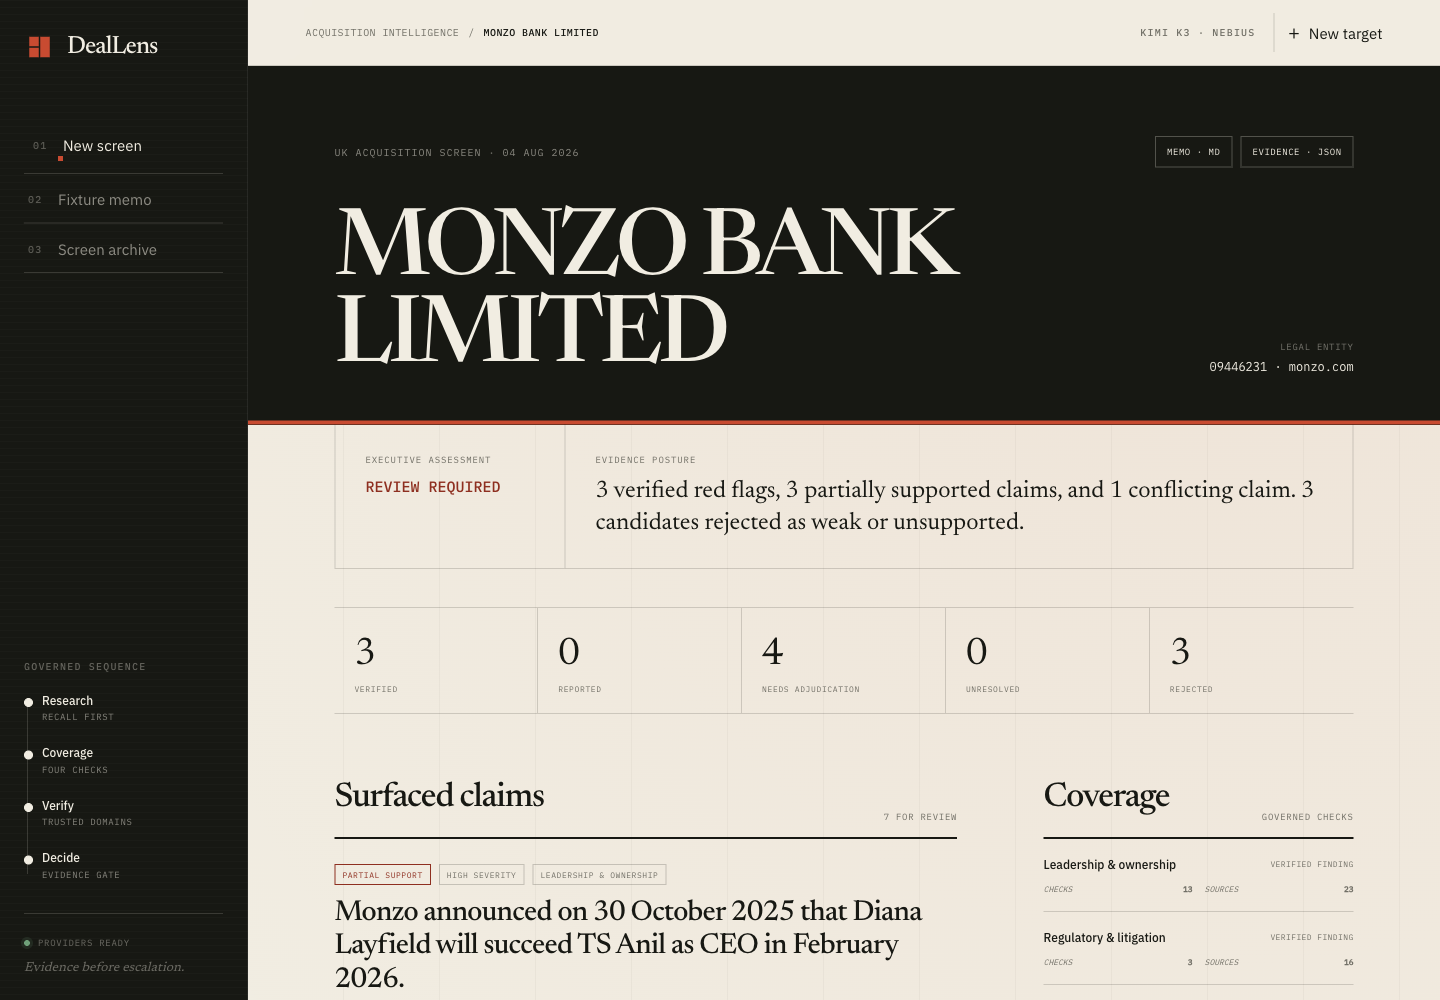
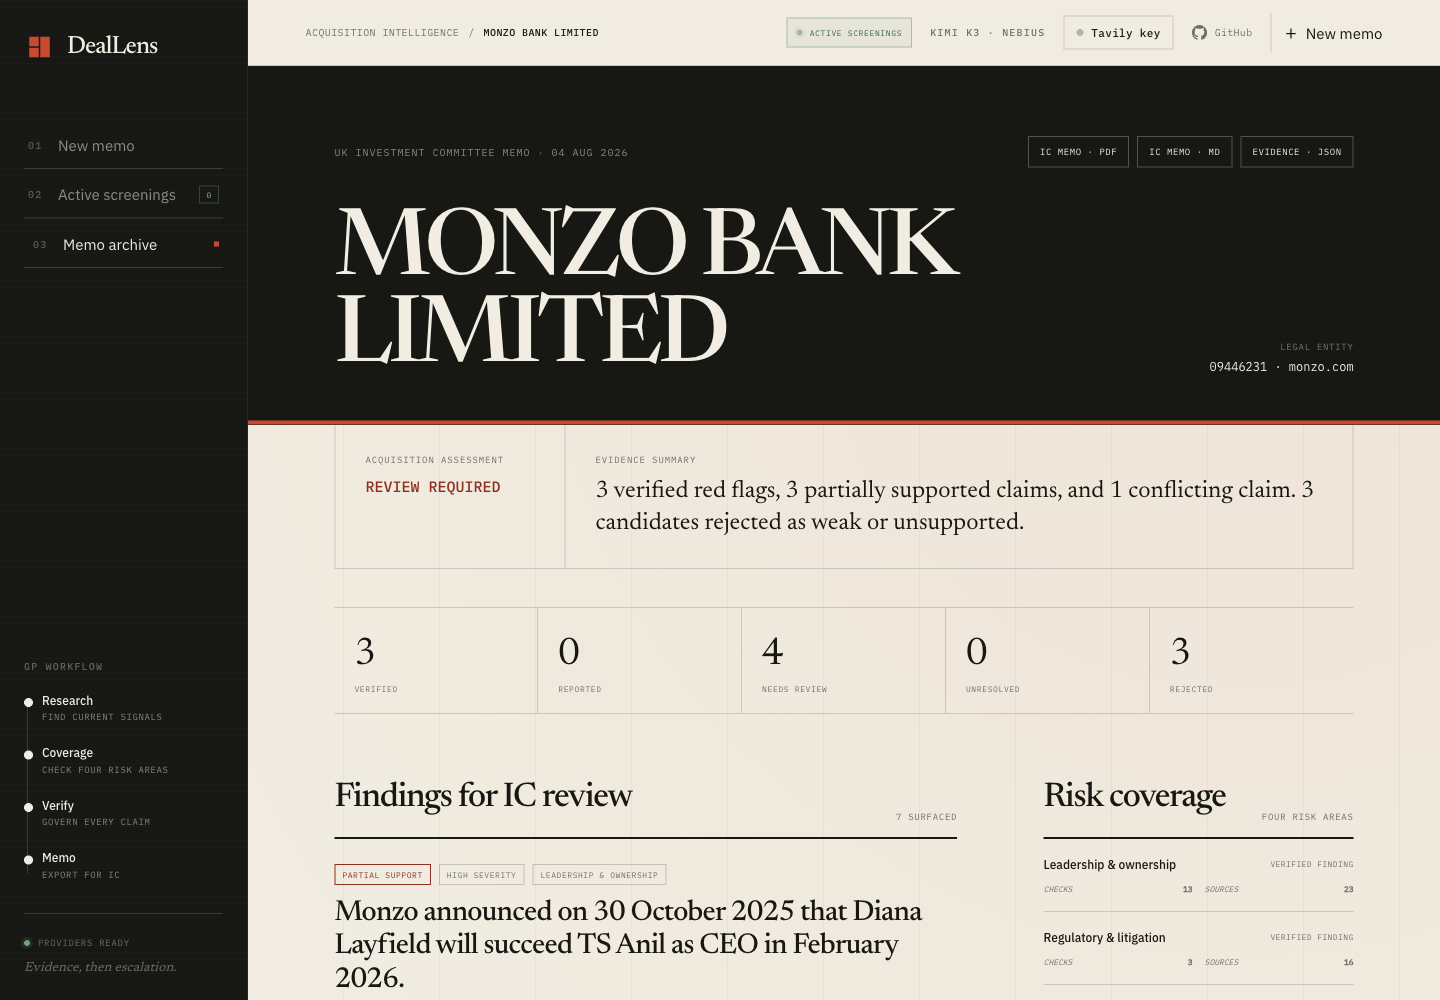
docs: refresh product tour and architecture

diff --git a/README.md b/README.md
@@ -18,7 +18,7 @@ applies the source, entity, and evidence rules.
 > findings” means four governed checks completed without qualifying public
 > evidence; it never means the company is cleared.
 
-![DealLens evidence dashboard](docs/assets/deallens-result.png)
+![DealLens acquisition-intelligence homepage](docs/assets/deallens-home.png)
 
 ## Why, when, and how
 
@@ -68,6 +68,39 @@ separates recall from trust:
 
 The model can suggest evidence. It cannot award itself `VERIFIED`.
 
+### Runtime architecture
+
+The model and retrieval providers sit outside the decision boundary. Only the
+deterministic gate can assign an evidence status or roll findings into the IC
+assessment.
+
+```mermaid
+flowchart TB
+    Analyst["Acquisition analyst"] --> UI["Web UI"]
+    UI --> API["FastAPI job + archive API"]
+    API --> Worker["Bounded screen worker"]
+    Config["Jurisdiction + severity YAML"] --> Worker
+
+    subgraph Providers["External providers"]
+        Tavily["Tavily<br/>Research · Search · Extract"]
+        Kimi["Kimi K3 via Nebius<br/>candidate + quote mapping"]
+    end
+
+    Worker --> Tavily
+    Worker --> Kimi
+    Tavily --> Gate["Deterministic evidence gate"]
+    Kimi --> Gate
+    Gate --> Result["Typed ScreenResult"]
+    Result --> Memo["PDF · Markdown · evidence.json"]
+    Result --> UI
+
+    Worker -. "root + child spans" .-> LangSmith["LangSmith EU"]
+    Tavily -. "retrieval spans" .-> LangSmith
+    Kimi -. "model spans" .-> LangSmith
+```
+
+### Retrieval and decision path
+
 ```mermaid
 flowchart LR
     A["Company + domain"] --> R["Tavily registry search"]
@@ -79,6 +112,23 @@ flowchart LR
     X --> K["Kimi K3 on Nebius<br/>quote/assertion mapping"]
     K --> G["Deterministic evidence gate"]
     G --> O["IC memo<br/>PDF + Markdown<br/>evidence.json"]
+```
+
+### Evidence state machine
+
+```mermaid
+flowchart TD
+    C["Candidate + atomic assertions"] --> E{"Qualifying evidence?"}
+    E -->|"none + processing failure"| U["UNRESOLVED"]
+    E -->|"none, checks completed"| R["REJECTED"]
+    E -->|"yes"| X{"Support and contradiction?"}
+    X -->|"both"| F["CONFLICTING"]
+    X -->|"contradiction only"| D["CONTRADICTED"]
+    X -->|"support"| A{"Every assertion covered?"}
+    A -->|"no"| P["PARTIAL"]
+    A -->|"yes"| T{"Primary source or<br/>2 independent publishers?"}
+    T -->|"yes"| V["VERIFIED"]
+    T -->|"secondary support only"| RP["REPORTED"]
 ```
 
 The full component, sequence, trust-boundary, and trace diagrams are in
@@ -124,6 +174,8 @@ The interface also includes:
 - verbatim evidence with clickable source links; and
 - direct PDF, Markdown, and JSON exports from both completed memos and the
   archive ledger.
+
+![Completed DealLens investment committee memo](docs/assets/deallens-result.png)
 
 ### Live provider setup
 
@@ -203,7 +255,7 @@ uv run deallens eval --json-out reports/evals/local-run.json
 uv run deallens eval --promote  # after label and result review
 ```
 
-The pytest suite is **73/73 passing**. Labels, the promote/review loop,
+The pytest suite is **74/74 passing**. Labels, the promote/review loop,
 limitations, and the machine-readable command are documented in
 [docs/EVALUATION.md](docs/EVALUATION.md); the committed case-level baseline is
 [docs/evaluation-results.json](docs/evaluation-results.json).
@@ -241,8 +293,10 @@ Each screen writes a Markdown memo and complete typed JSON evidence package.
 The web app also renders a styled, source-linked PDF memo on demand for every
 completed screen, including retained archive entries.
 The usage ledger records Tavily credits per endpoint, Nebius token counts, wall
-time, and an explicit `usage_complete` flag. If Research credit measurement is
-unavailable, the ledger says so rather than reporting a false total.
+time, and an explicit `usage_complete` flag. It reads Tavily's dedicated
+`research_usage` counter and briefly retries delayed updates; if the final
+delta is not yet reflected, it marks the total incomplete rather than
+overstating cost.
 
 ## Repository map
 
